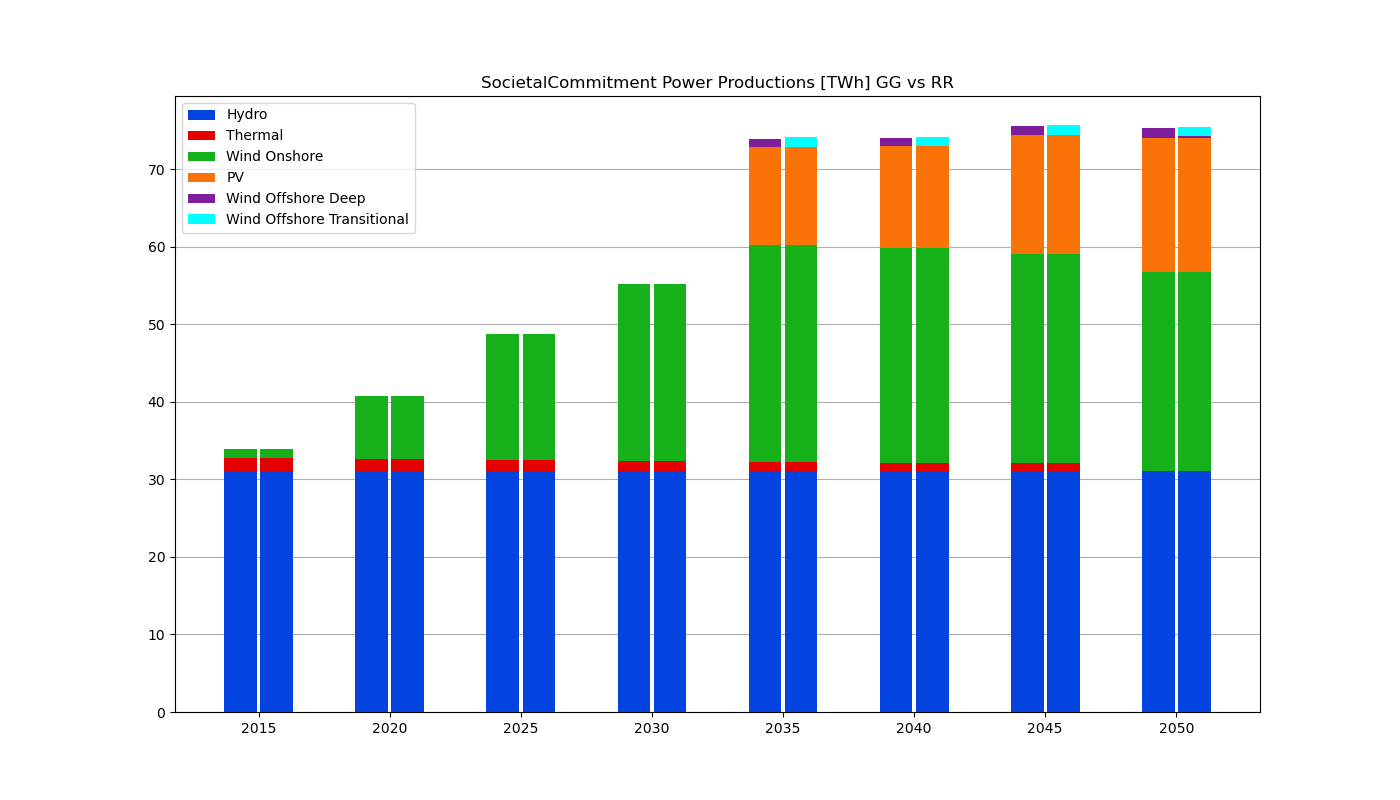
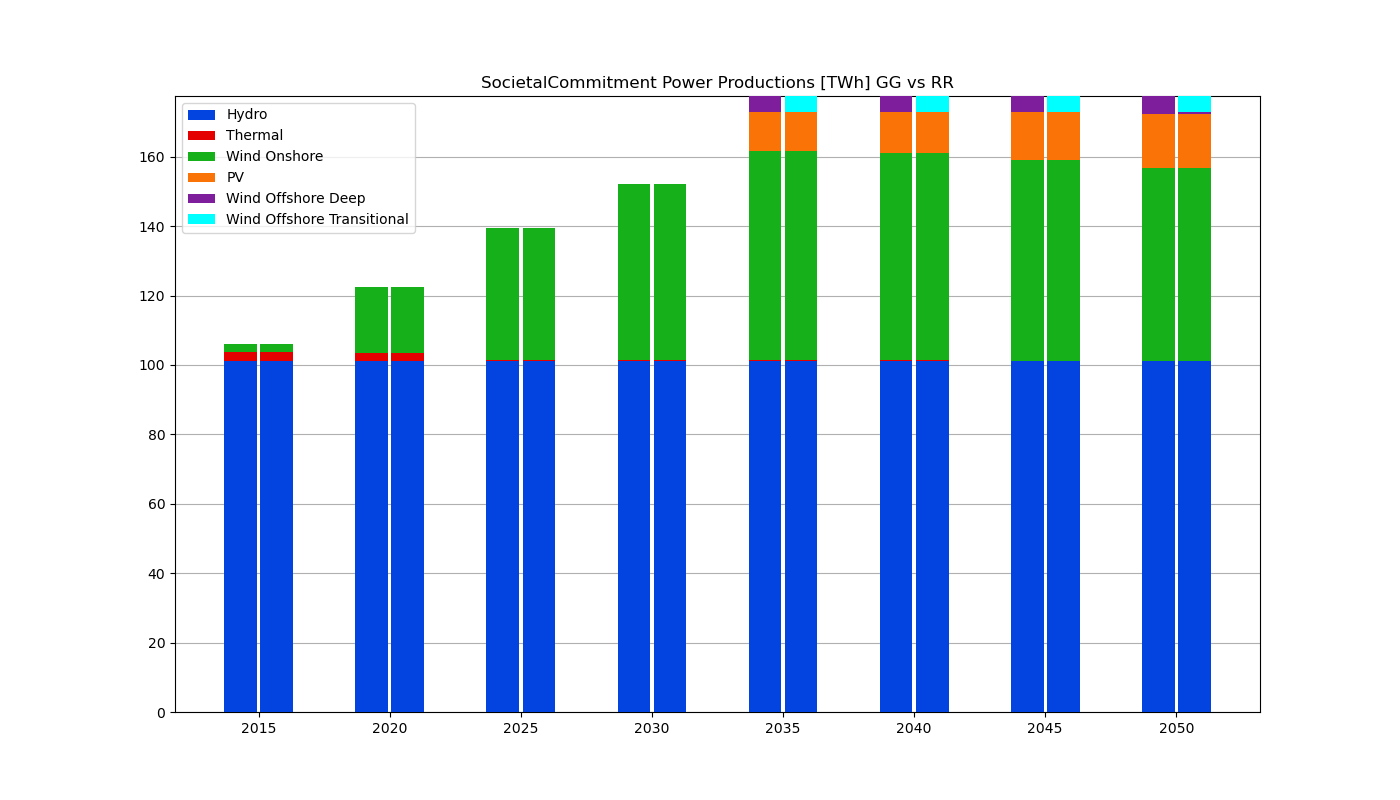
Fix plot

diff --git a/main.py b/main.py
@@ -62,7 +62,7 @@ plotDfs([SCP,TFP,DTP,GDP], "Power Productions [TWh] All scenarios [SC,TF,DT,GD]"
 plotDfs([GDC, TU_GDC], "GradualDevelopment Power Capacities [GW] GG vs RR", False)
 plotDfs([GDP, TU_GDP], "GradualDevelopment Power Productions [TWh] GG vs RR", False)
 plotDfs([SCC, TU_SCC], "SocietalCommitment Power Capacities [GW] GG vs RR", False)
-plotDfs([SCC, TU_SCC], "SocietalCommitment Power Productions [TWh] GG vs RR", False)
+plotDfs([SCP, TU_SCP], "SocietalCommitment Power Productions [TWh] GG vs RR", False)
 
 # GG_New vs GG_Old
 plotDfs([GDC, GDC_Old], "GradualDevelopment Power Capacities [GW] New vs Old", False)
